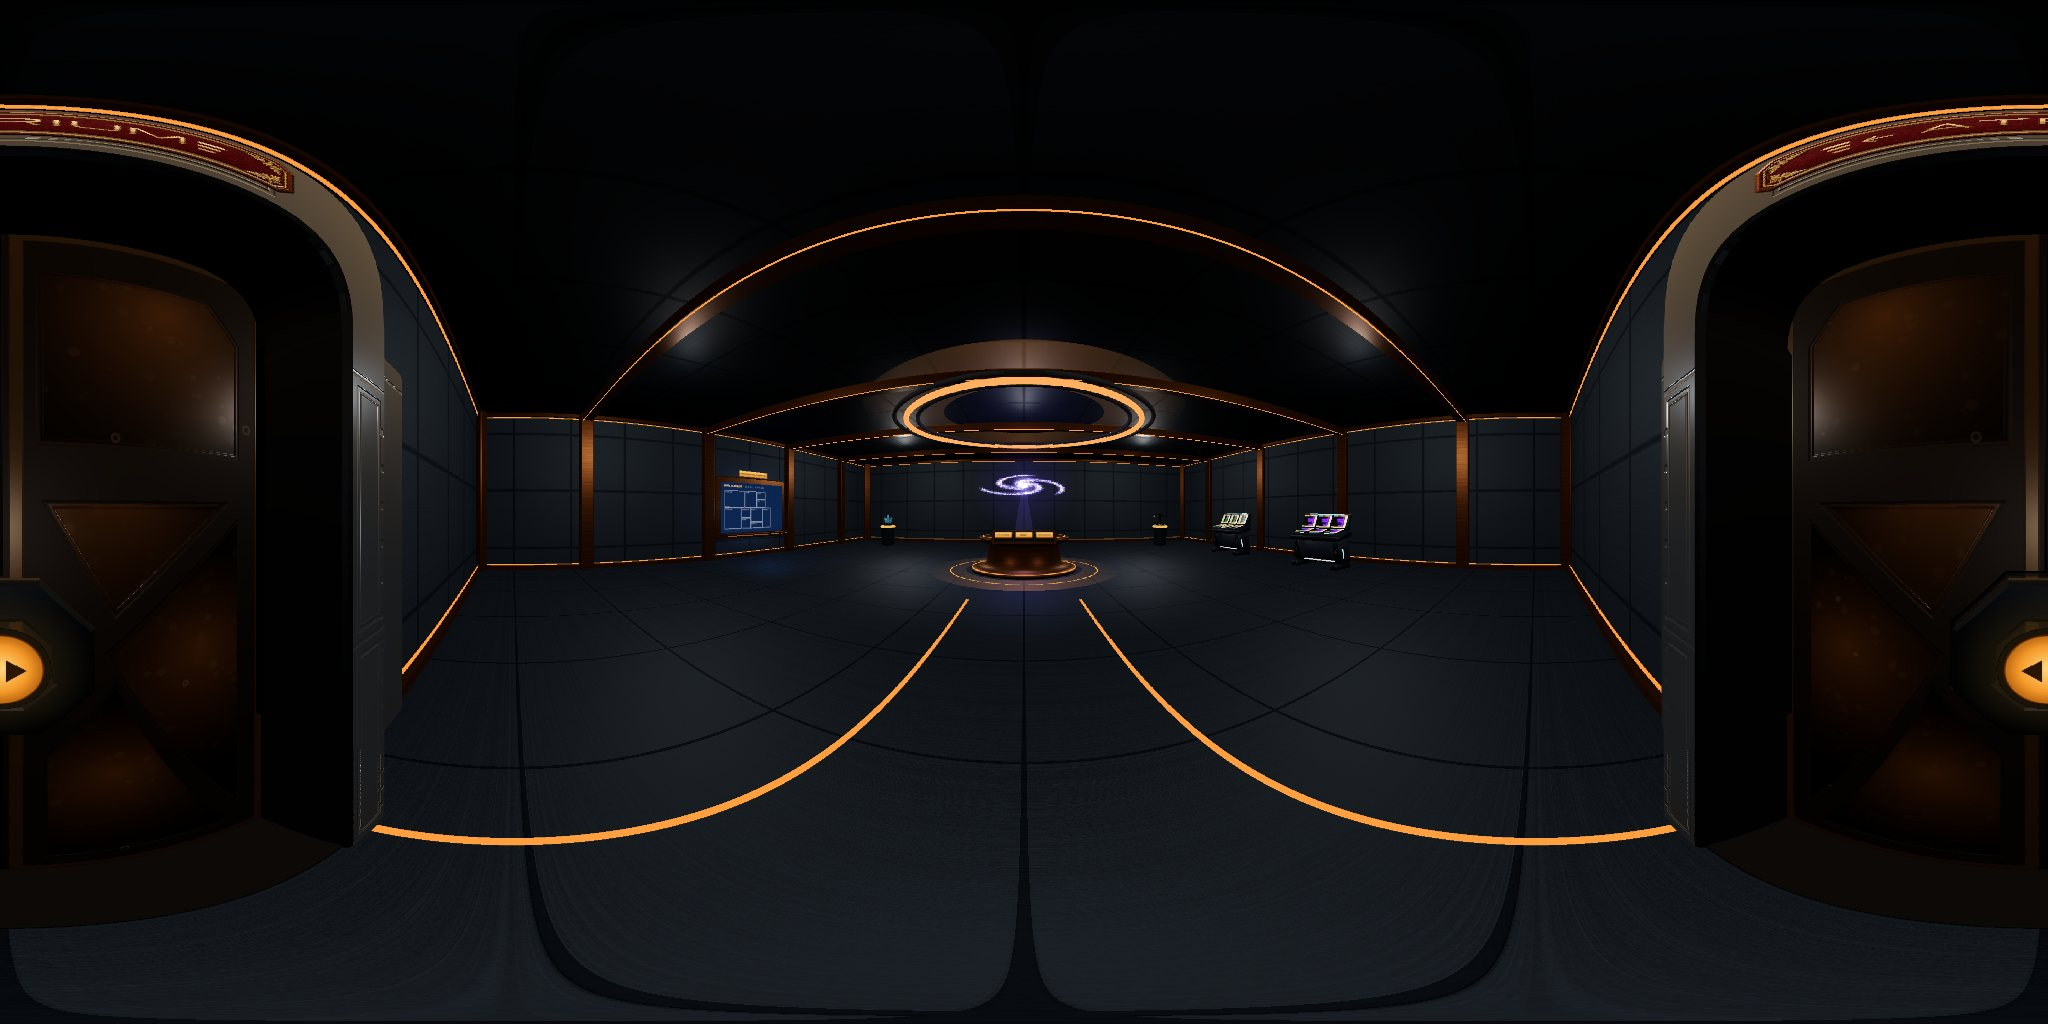
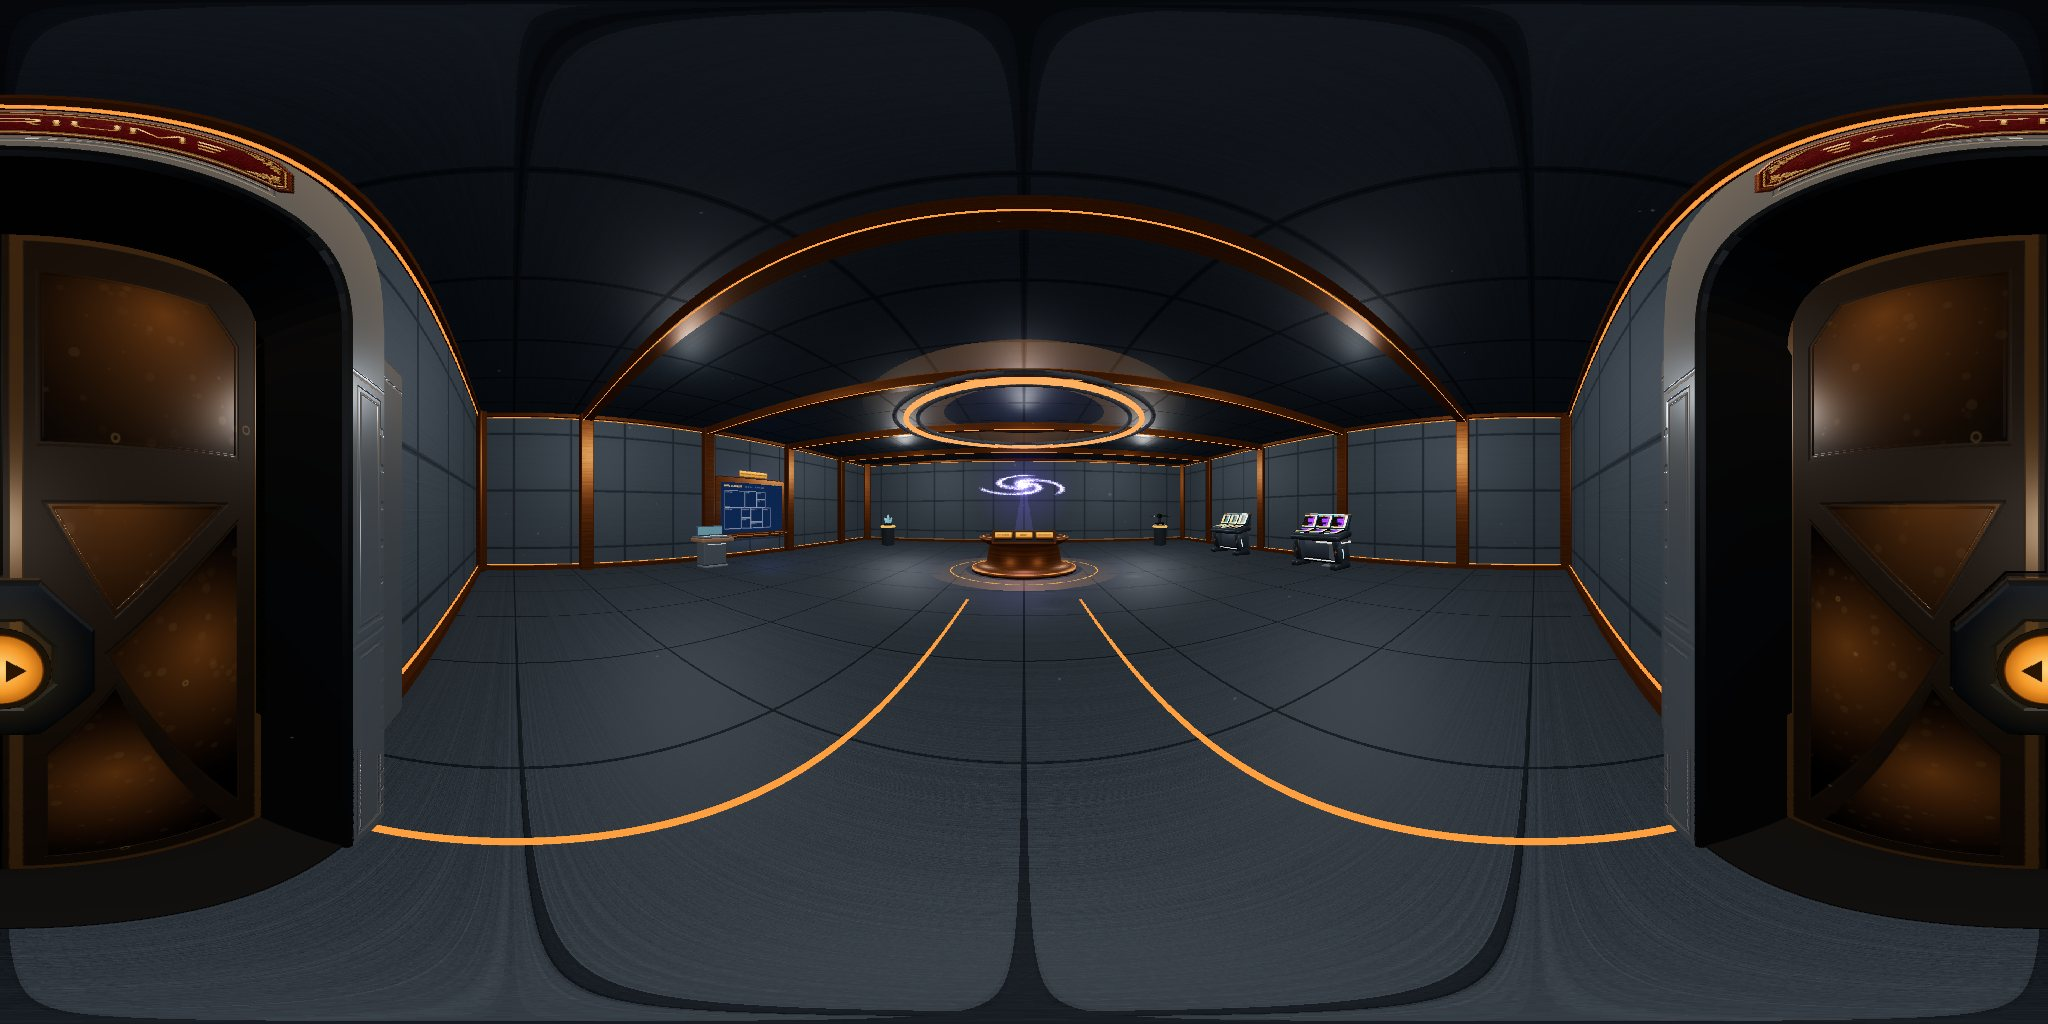
Recapture Media/Lounge/Library/Holodeck portal photos after props pass; v 20261127w
Claude-Session: https://claude.ai/code/session_015swmRW9rk9HZt8JyLRwsXT

diff --git a/bridge.html b/bridge.html
@@ -734,6 +734,6 @@
       o.material = arr.map(function (m) { if (!m.isMeshStandardMaterial || m.transparent) return m; var c = m.clone(); c.color.setHex(0xe09a68); c.metalness = 0.92; c.roughness = 0.3; c.envMapIntensity = 0.8; return c; });
       if (!Array.isArray(o.material) || o.material.length === 1) o.material = Array.isArray(o.material) ? o.material[0] : o.material; }); }());</script>
   <script src="interior-v8.js?v=20261127u"></script>
-  <script src="realism-loader.js?v=20261127v"></script>
+  <script src="realism-loader.js?v=20261127w"></script>
 </body>
 </html>

diff --git a/lounge.html b/lounge.html
@@ -539,6 +539,6 @@
   <script>  /* Furniture Upgrade 01 props pass (Nov 26) */
     document.querySelector('a-scene').addEventListener('loaded', function () { WF_FURN.place('bar_stool', { position: [5.75, 0, 4.58], yaw: 0.838 }); WF_FURN.place('bar_stool', { position: [5.15, 0, 5.24], yaw: 0.838 }); WF_FURN.place('cat_ramp', { position: [5.55, 0, 2.55], yaw: -2.05 }); });
   </script>
-  <script src="realism-loader.js?v=20261127v"></script>
+  <script src="realism-loader.js?v=20261127w"></script>
 </body>
 </html>

diff --git a/holodeck.html b/holodeck.html
@@ -659,6 +659,6 @@ function closeShoppingList() {
   <script>  /* Furniture Upgrade 01 props pass (Nov 26) */
     document.querySelector('a-scene').addEventListener('loaded', function () { WF_FURN.place('holodeck_control_desk', { position: [-7.7, 0, 2.6], yaw: Math.PI / 2 }); WF_FURN.place('holodeck_utility_table', { position: [7.6, 0, 2.6], yaw: -Math.PI / 2 }); });
   </script>
-  <script src="realism-loader.js?v=20261127v"></script>
+  <script src="realism-loader.js?v=20261127w"></script>
 </body>
 </html>

diff --git a/library.html b/library.html
@@ -736,6 +736,6 @@
   <script>  /* Furniture Upgrade 01 props pass (Nov 26) */
     document.querySelector('a-scene').addEventListener('loaded', function () { WF_FURN.place('reading_armchair', { position: [1.75, 0, -8.55], yaw: -0.45 }); WF_FURN.place('side_table', { position: [2.55, 0, -8.85], yaw: 0 }); });
   </script>
-  <script src="realism-loader.js?v=20261127v"></script>
+  <script src="realism-loader.js?v=20261127w"></script>
 </body>
 </html>

diff --git a/media.html b/media.html
@@ -257,6 +257,6 @@
   <script>  /* Furniture Upgrade 01 props pass (Nov 26) */
     document.querySelector('a-scene').addEventListener('loaded', function () { document.querySelectorAll('.old-seat').forEach(function (e) { WF_FURN.swapEntity(e, 'cinema_recliner'); }); });
   </script>
-  <script src="realism-loader.js?v=20261127v"></script>
+  <script src="realism-loader.js?v=20261127w"></script>
 </body>
 </html>

diff --git a/maint.html b/maint.html
@@ -58,6 +58,6 @@
   <script src="kitroom.js?v=20261127s"></script>
   <script src="interior-v8.js?v=20261127u"></script>
   <script src="furniture.js?v=20261127s"></script>
-  <script src="realism-loader.js?v=20261127v"></script>
+  <script src="realism-loader.js?v=20261127w"></script>
 </body>
 </html>

diff --git a/mess.html b/mess.html
@@ -58,6 +58,6 @@
   <script src="kitroom.js?v=20261127s"></script>
   <script src="interior-v8.js?v=20261127u"></script>
   <script src="furniture.js?v=20261127s"></script>
-  <script src="realism-loader.js?v=20261127v"></script>
+  <script src="realism-loader.js?v=20261127w"></script>
 </body>
 </html>

diff --git a/index.html b/index.html
@@ -59,6 +59,6 @@
   <script src="atrium.js?v=20261127s"></script>
   <script src="interior-v8.js?v=20261127u"></script>
   <script src="furniture.js?v=20261127u"></script>
-  <script src="realism-loader.js?v=20261127v"></script>
+  <script src="realism-loader.js?v=20261127w"></script>
 </body>
 </html>

diff --git a/engine.html b/engine.html
@@ -57,6 +57,6 @@
   <script src="atrium.js?v=20261127s"></script>
   <script src="kitroom.js?v=20261127s"></script>
   <script src="interior-v8.js?v=20261127u"></script>
-  <script src="realism-loader.js?v=20261127v"></script>
+  <script src="realism-loader.js?v=20261127w"></script>
 </body>
 </html>

diff --git a/firefly.html b/firefly.html
@@ -57,6 +57,6 @@
   <script src="atrium.js?v=20261127s"></script>
   <script src="kitroom.js?v=20261127s"></script>
   <script src="interior-v8.js?v=20261127u"></script>
-  <script src="realism-loader.js?v=20261127v"></script>
+  <script src="realism-loader.js?v=20261127w"></script>
 </body>
 </html>

diff --git a/xeno.html b/xeno.html
@@ -57,6 +57,6 @@
   <script src="atrium.js?v=20261127s"></script>
   <script src="kitroom.js?v=20261127s"></script>
   <script src="interior-v8.js?v=20261127u"></script>
-  <script src="realism-loader.js?v=20261127v"></script>
+  <script src="realism-loader.js?v=20261127w"></script>
 </body>
 </html>

diff --git a/medbay.html b/medbay.html
@@ -56,6 +56,6 @@
   </a-scene>
   <script src="roompack.js?v=20261127s"></script>
   <script src="interior-v8.js?v=20261127u"></script>
-  <script src="realism-loader.js?v=20261127v"></script>
+  <script src="realism-loader.js?v=20261127w"></script>
 </body>
 </html>
